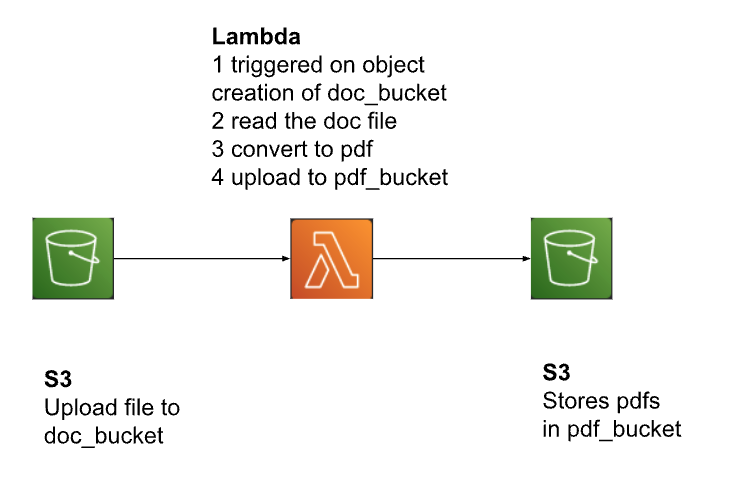
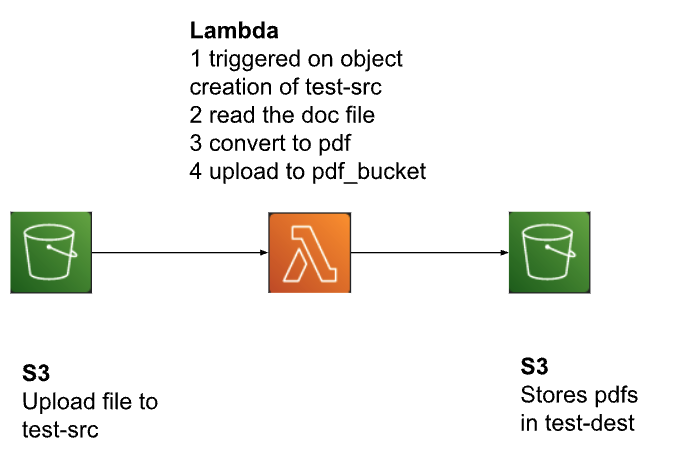
added doc to pdf conversion on sqs project. container deployment

diff --git a/python/word-to-pdf-on-sqs-trigger-container/lambda_function.py b/python/word-to-pdf-on-sqs-trigger-container/lambda_function.py
@@ -11,9 +11,9 @@ https://wiki.documentfoundation.org/Documentation/Install/Linux
 import os
 import boto3
 import subprocess
+import json
 
-upload_bucket = 'test-dest'
-
+destination_bucket = 'test-dest-23'
  
 '''
 This function downloads an object from s3 bucket
@@ -62,10 +62,20 @@ def convert_word_to_pdf(word_file_path, output_dir):
     return True
 
 def handler(event, context):
+    event_body = event['Records'][0]['body']
+    event_body = json.loads(event_body)
+    if 'bucket' not in event_body:
+        print('The bucket is not in the sqs message')
+        return
+    
+    if 'key' not in event_body:
+        print('Ket is not in the SQS message')
+        return
+    
     #bucket = bucket name that triggered the event
-    bucket = event['Records'][0]['s3']['bucket']['name']
+    bucket = event_body['bucket']
     #key: test.docx
-    key = event['Records'][0]['s3']['object']['key']
+    key = event_body['key']
     print('src bucket', bucket, 'key', key)
 
     #key_prefix: ''
@@ -99,7 +109,7 @@ def handler(event, context):
         else:
             upload_key = f"{file_name}.pdf"
 
-        upload_to_s3(f"{output_dir}/{file_name}.pdf", upload_bucket, upload_key)
+        upload_to_s3(f"{output_dir}/{file_name}.pdf", destination_bucket, upload_key)
         print('Pdf was uploaded successfully')
     else:
         print('Error when converting to pdf')

diff --git a/python/word-to-pdf-on-sqs-trigger-container/README.md b/python/word-to-pdf-on-sqs-trigger-container/README.md
@@ -1,8 +1,22 @@
-<h1>Word to pdf conversion by libreoffice container deployed on aws lambda function-on s3 trigger</h1>
+<h1>Word to pdf conversion by libreoffice container deployed on aws lambda function-on SQS Trigger</h1>
 
-In this project, we are going to convert a doc file to pdf by using libreoffice container deployed on an aws lambda function. We will setup libre office on python base image and create a container image for lambda.
+In this project, we are going to convert a doc file to pdf by using libreoffice container deployed on an aws lambda function. We will setup libre office on python base image and create a container image for lambda. A doc file is uploaded to the source bucket. Then sqs message is sent to the lambda function including the bucket name and the object key. The lambda function converts the doc file into pdf and uploads it to the destination bucket.
+
 <h2>System Design</h2>
 <img src="systemdesign.png">
+<h2>Create SQS</h2>
+Create a SQS queue. (test-queue)<br>
+<code>
+<pre>
+visibility timeout = (function timeout * 6) + batch window
+if batch window = 0
+function timeout = 60 s
+
+visibility timeout = 60 * 6 = 360s
+
+Leave the delivery delay and receive message wait time to 0.
+</pre>
+</code>
 <h2>S3</h2>
 Create the following buckets.<br>
 <b>test-src</b>: doc files are uploaded to this bucket<br>
@@ -51,9 +65,24 @@ Within the execution role, make sure to add permission to CloudWatch and S3<br>
 Create a lambda function. Let's call it test-lambda.<br>
 Select container image option. Use the latest image of the previously created ECR repository. <br>
 Select the previously created execution role.<br>
-Create a bucket called test-src (or any other name) and add it as the trigger for our lambda function<br>
-Create the test-dest bucket (or any other name. Make sure update the lambda function code with your destination bucket name). <br>
+Add the previously created SQS queue as the trigger<br>
+<code>
+<pre>
+batch size = 1
+batch window = 0
+</pre>
+</code>
 
-Test the function and observe the logs added by the function appear. 
+upload a doc file to the test-src bucket <br>
+Send a message to the sqs queue including the bucket name and key. <br>
+Check if the test-dest-bucket has the converted pdf file.<br>
+
+SQS Message Format<br>
+<code>
+{"bucket":"test-src-23", "key":"test.docx"}
+</code>
+
+where bucket is the source bucket.
+
 
 
